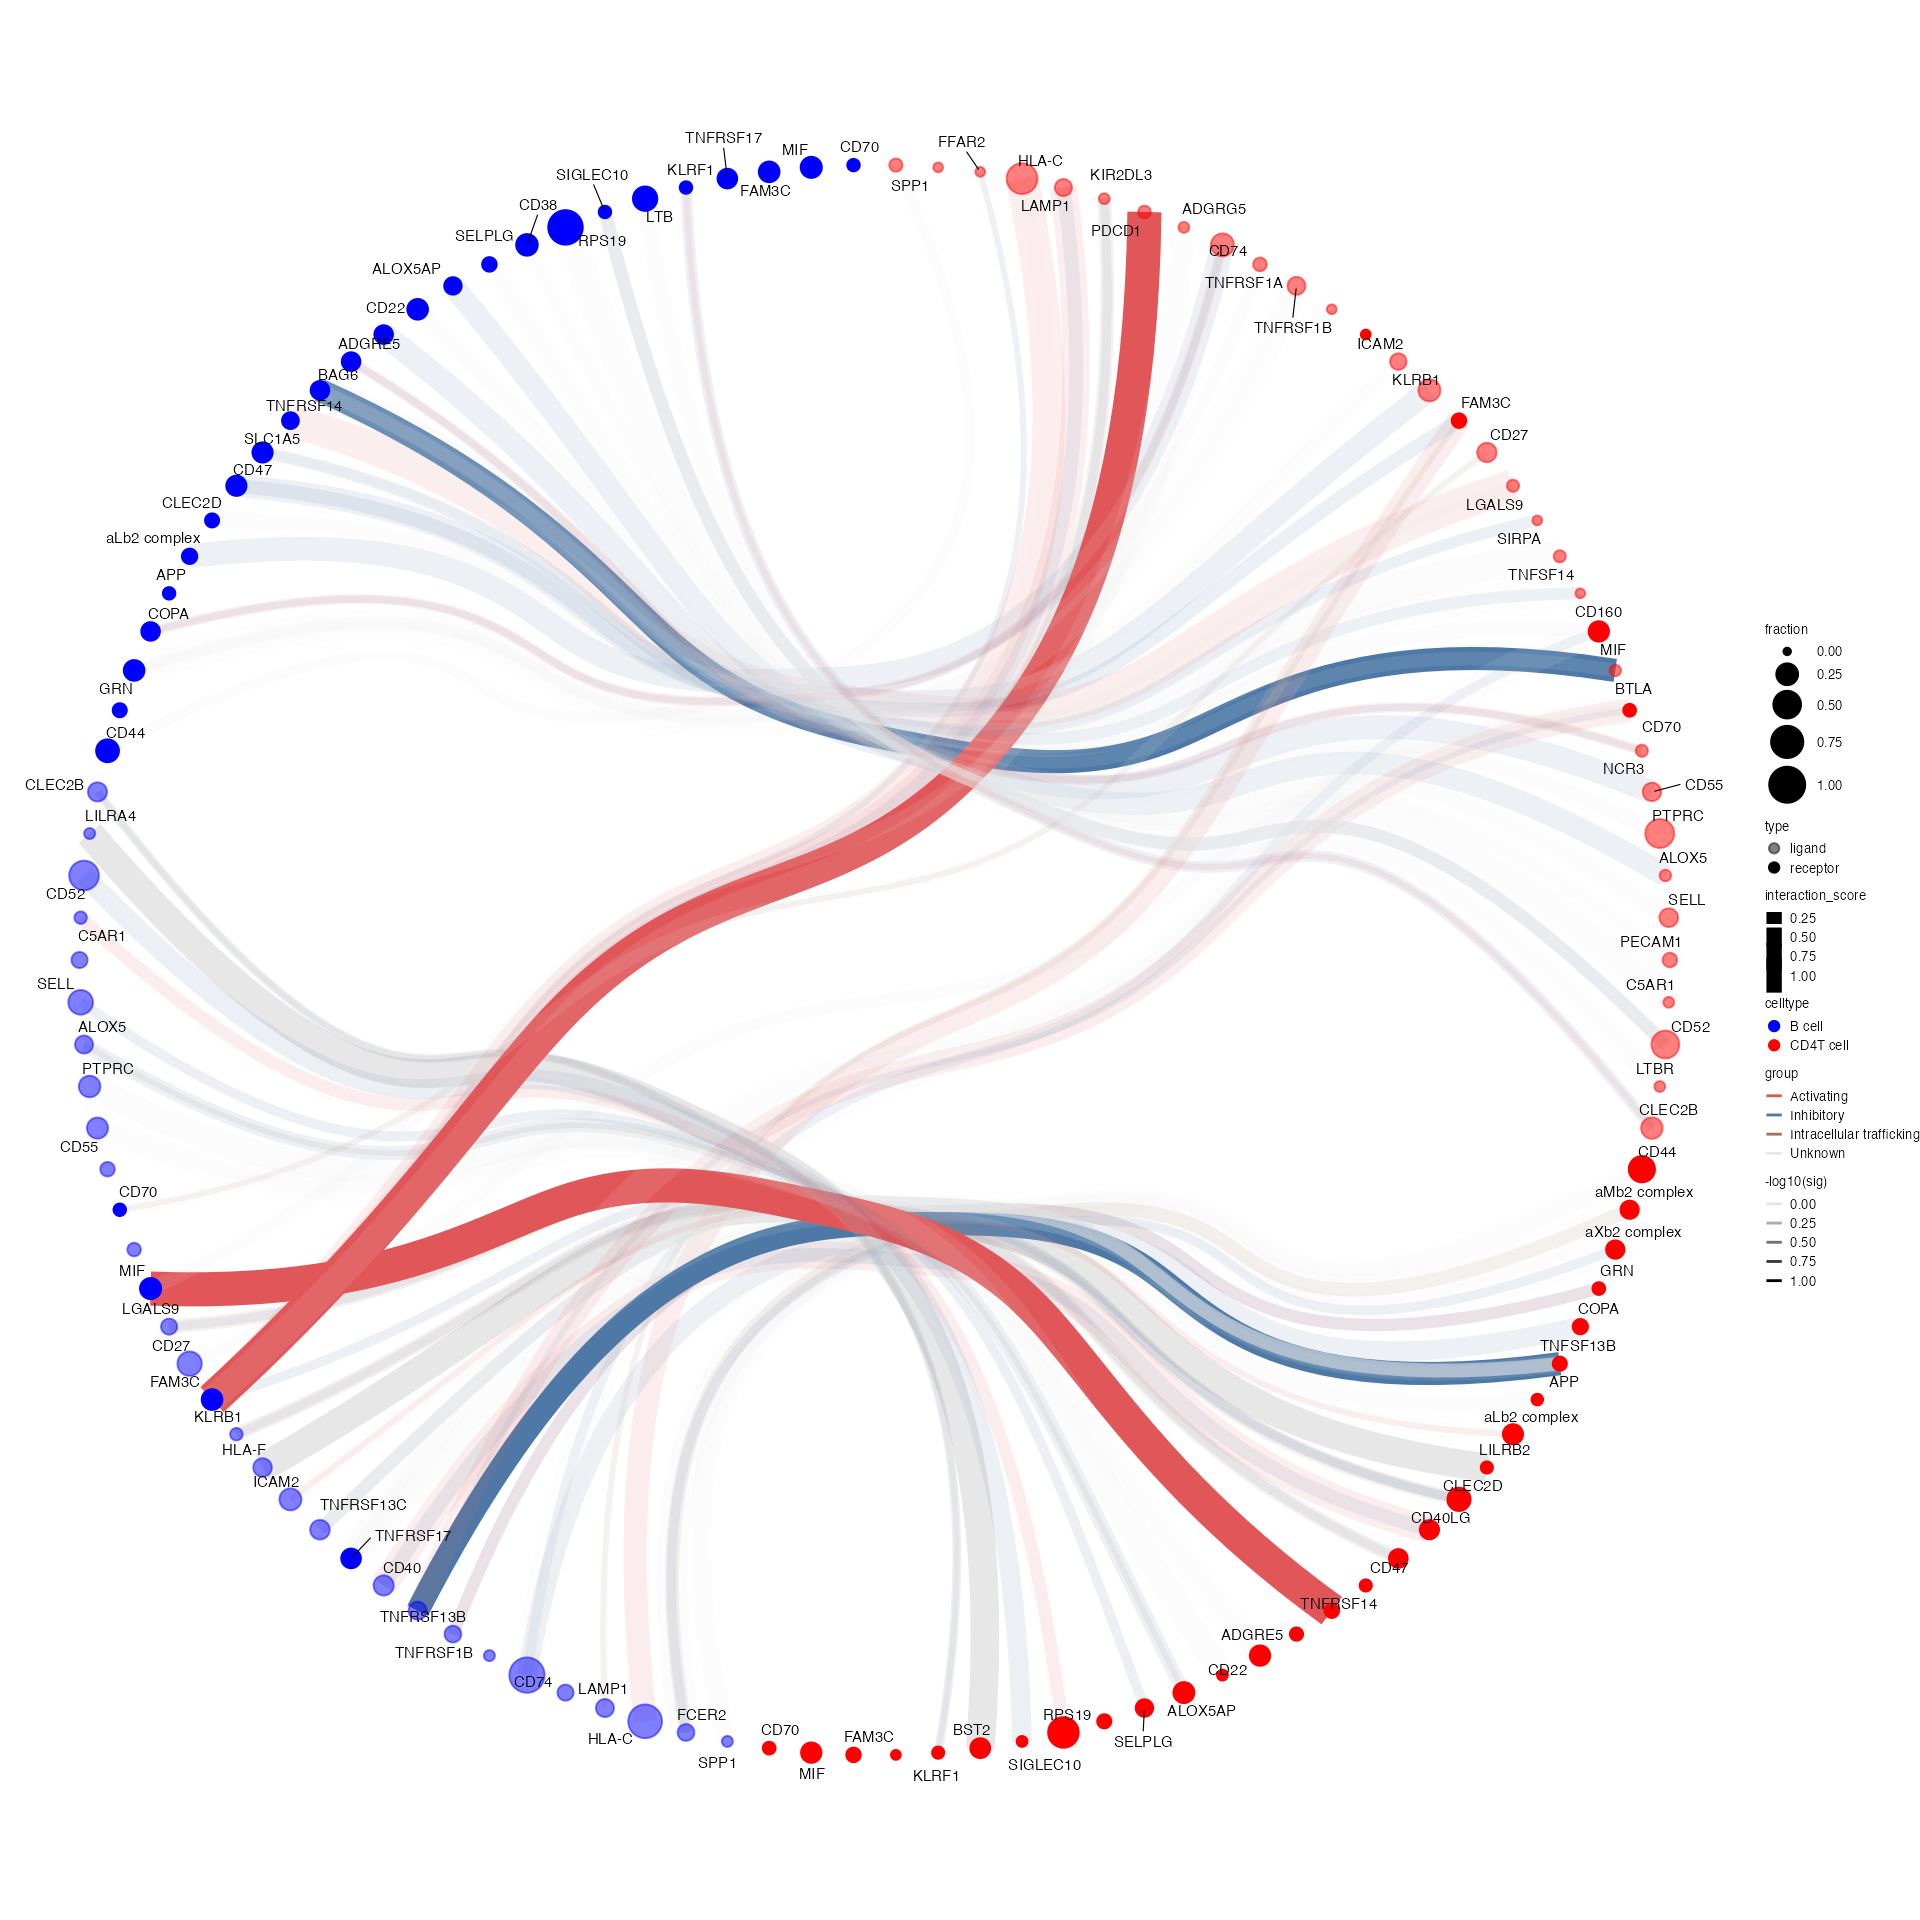
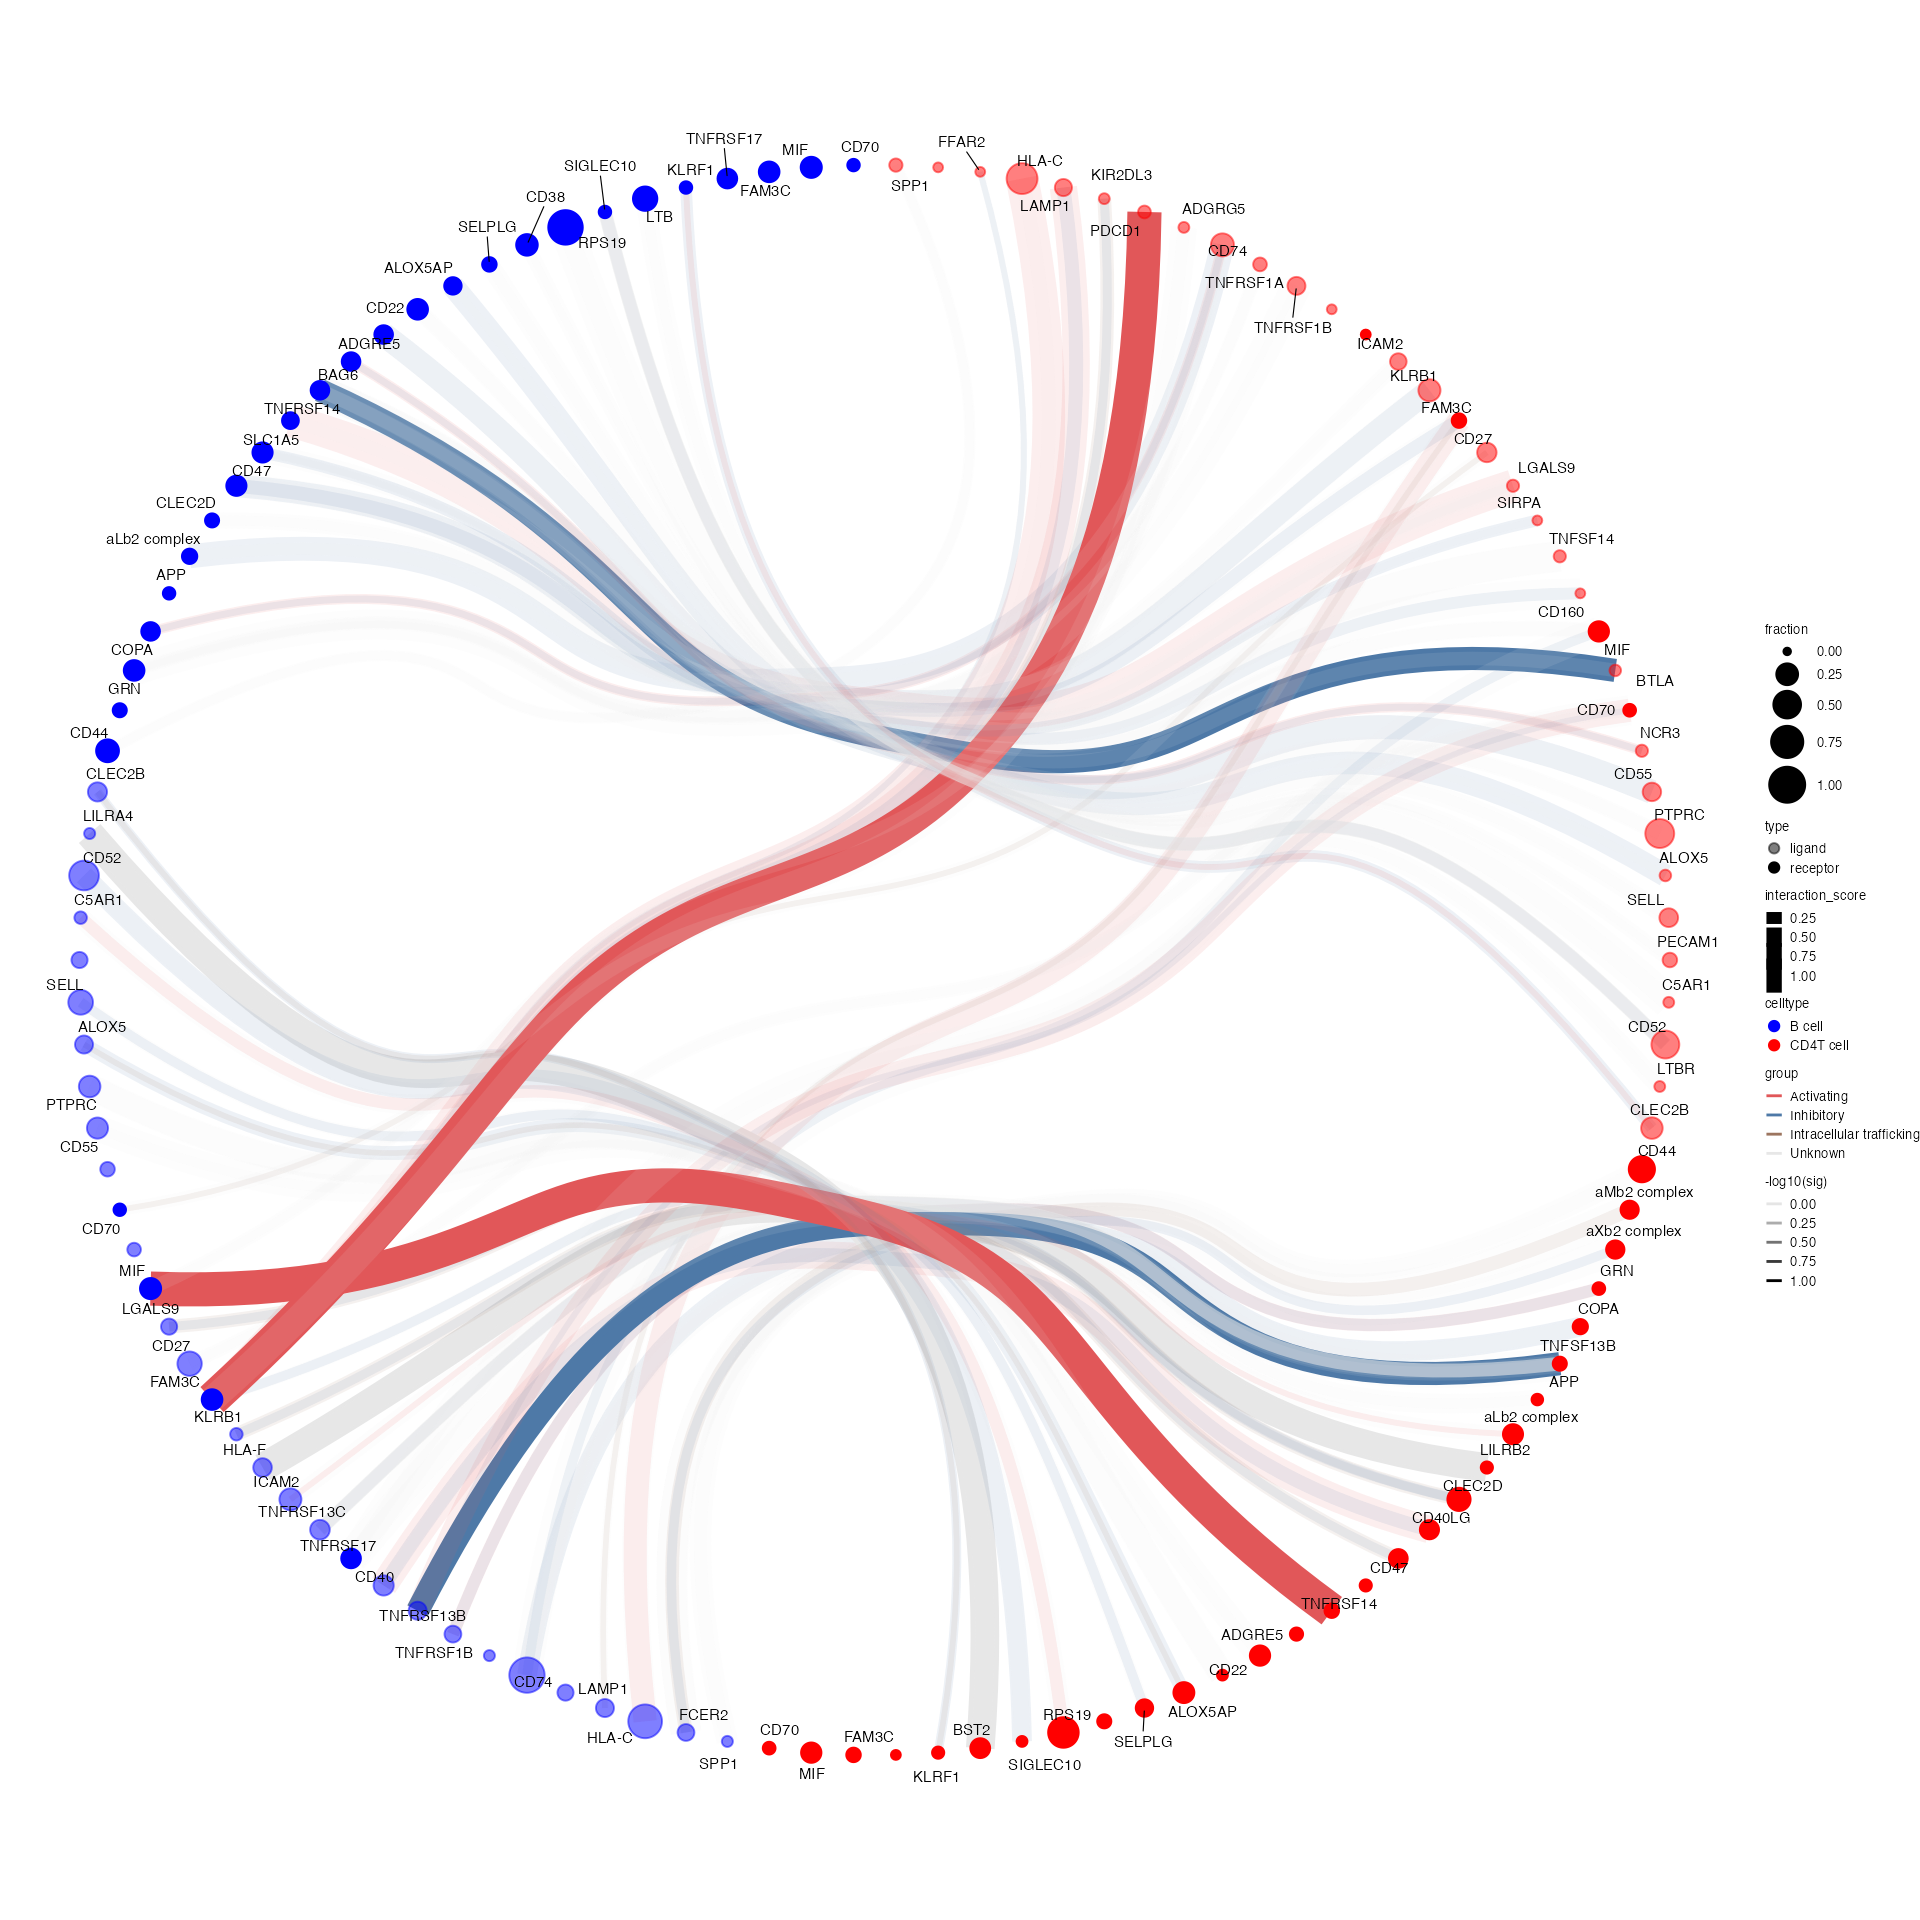
Built site for ktplots: 2.1.0@0cb1d21

diff --git a/reference/plot_cpdb.html b/reference/plot_cpdb.html
@@ -88,6 +88,7 @@
 <span>  scale_alpha_by_cellsign <span class="op">=</span> <span class="cn">FALSE</span>,</span>
 <span>  filter_by_cellsign <span class="op">=</span> <span class="cn">FALSE</span>,</span>
 <span>  title <span class="op">=</span> <span class="st">""</span>,</span>
+<span>  keep_id_cp_interaction <span class="op">=</span> <span class="cn">FALSE</span>,</span>
 <span>  <span class="va">...</span></span>
 <span><span class="op">)</span></span></code></pre></div>
     </div>
@@ -208,6 +209,10 @@
 
 <dt>filter_by_cellsign</dt>
 <dd><p>Filter out interactions with a 0 value cellsign.</p></dd>
+
+
+<dt>keep_id_cp_interaction</dt>
+<dd><p>Whether or not to keep the id_cp_interaction in the plot.</p></dd>
 
 
 <dt>...</dt>
